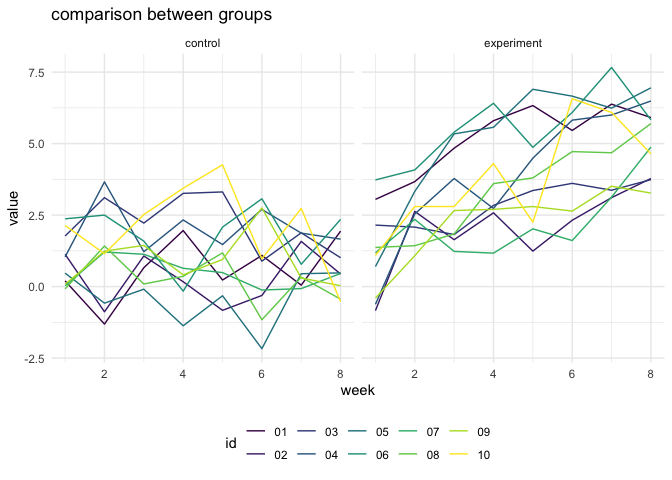
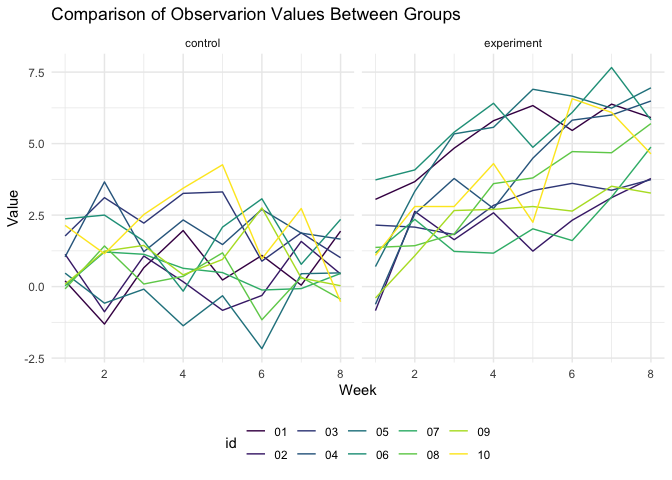
Change the name of the plot in problem2

Changed region(s): [[0.0625, 0.0, 0.6875, 0.0625], [0.5, 0.7812, 0.5625, 0.8438], [0.0, 0.4062, 0.0312, 0.4688]]

diff --git a/p8105_hw5_yw3774.md b/p8105_hw5_yw3774.md
@@ -389,9 +389,9 @@ new_data %>%
   facet_grid(. ~ arm) +
   geom_line() +
    labs(
-    title = "comparison between groups",
-    x = "week",
-    y = "value"
+    title = "Comparison of Observarion Values Between Groups",
+    x = "Week",
+    y = "Value"
     )
 ```
 
